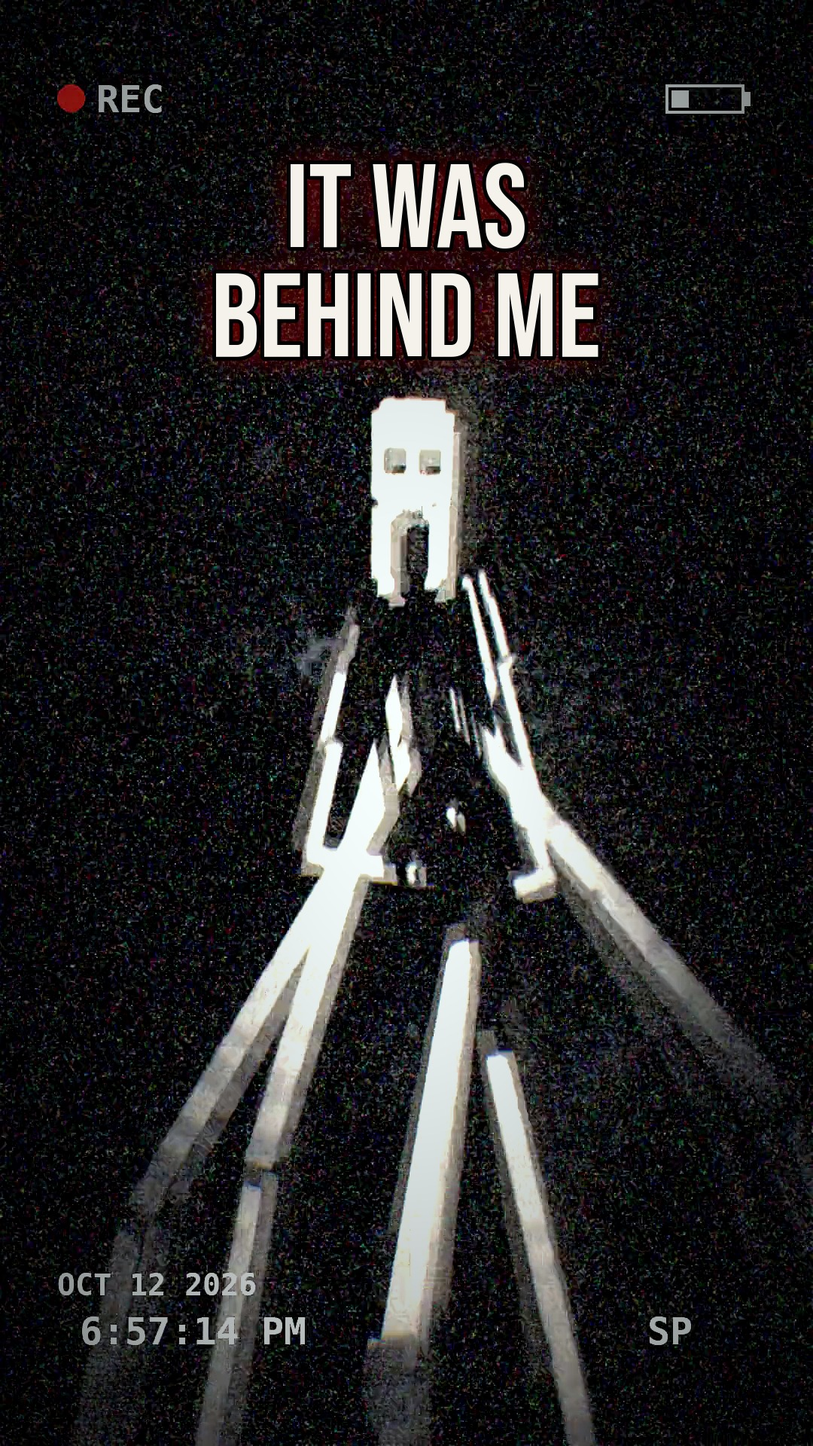
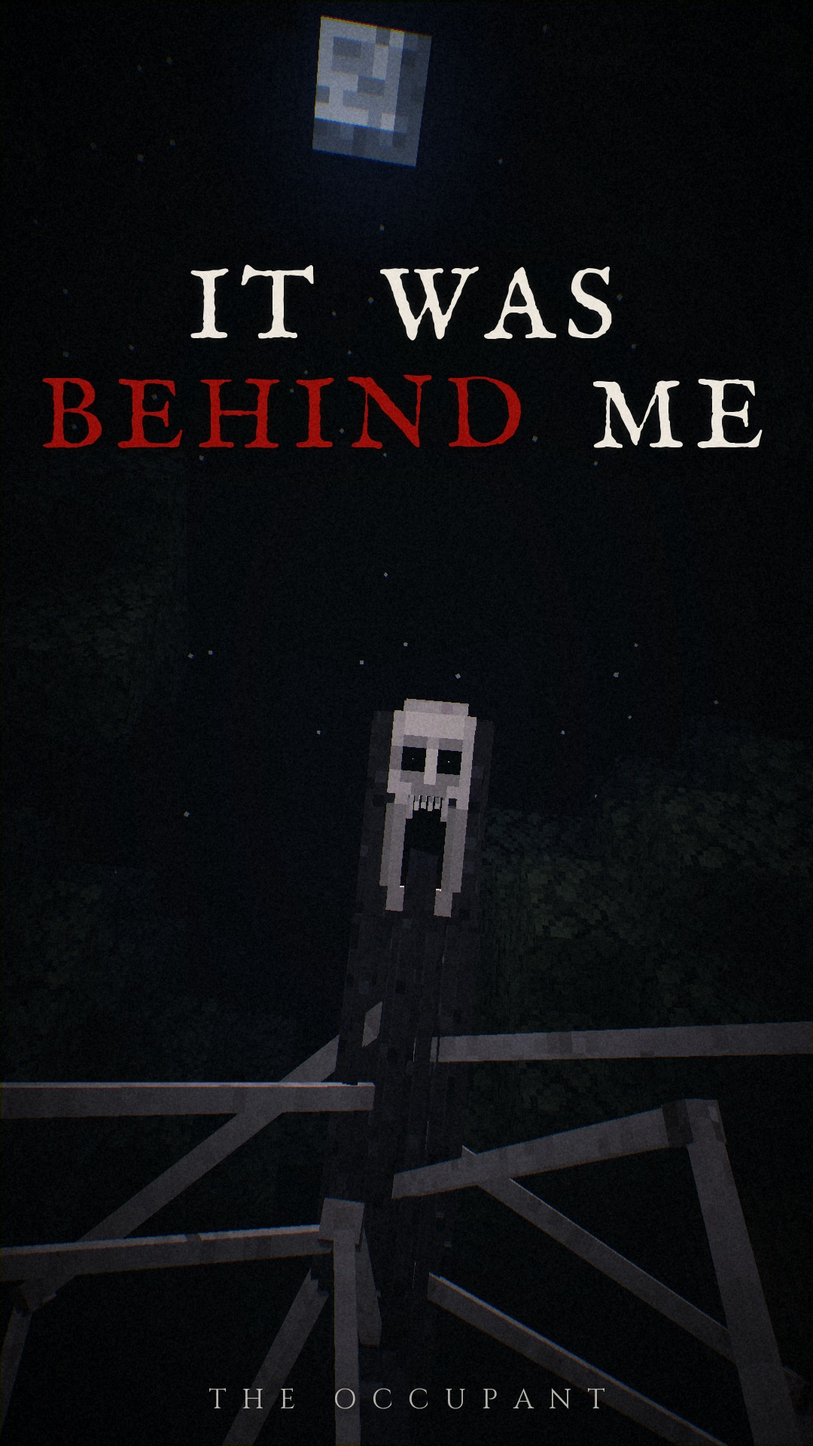
Thumbnails: staged in-game stills with a film-poster finish, in place of the frame grabs [skip ci]
The long video's is the face in the wall, lit in a pool, with "IT WAS IN THE WALL"; the short's is
it towering over them under the moon, with "IT WAS BEHIND ME". make_thumbs.py lights a pool where
the face is; HANDOFF.md says how to stage and finish them again.

Claude-Session: https://claude.ai/code/session_01A83kBx6QGbAcpDrebXu8tt

diff --git a/video-tools/edit/make_thumbs.py b/video-tools/edit/make_thumbs.py
@@ -122,12 +122,24 @@ def title(a, lines, cx, y0, size, tracking, red_word=None, credit=None, credit_y
     return np.asarray(img.convert("RGB")).astype(np.float32) / 255
 
 
-def finish(src, out, lines, cx, y0, size, tracking, red_word, credit_y, credit_size, crop=None):
+def spot(a, cx, cy, r, dark, gain=1.0):
+    """Everything but a pool round ({cx}, {cy}) (fractions of the frame) let down into the dark, the
+    pool itself brought up by {gain}."""
+    h, w, _ = a.shape
+    y, x = np.mgrid[0:h, 0:w].astype(np.float32)
+    d = np.sqrt(((x / w - cx) * w / h) ** 2 + (y / h - cy) ** 2)
+    m = dark + (gain - dark) * np.exp(-(d / r) ** 2)
+    return np.clip(a * m[..., None], 0, 1)
+
+
+def finish(src, out, lines, cx, y0, size, tracking, red_word, credit_y, credit_size, crop=None, pool=None):
     im = Image.open(src).convert("RGB")
     if crop:
         im = im.crop(crop)
     a = np.asarray(im).astype(np.float32) / 255
     w = a.shape[1]
+    if pool:
+        a = spot(a, *pool)
     a = grade(a)
     a = bloom(a, w * 0.012)
     a = fringe(a)
@@ -140,9 +152,11 @@ def finish(src, out, lines, cx, y0, size, tracking, red_word, credit_y, credit_s
 if __name__ == "__main__":
     long_src, short_src, outdir = Path(sys.argv[1]), Path(sys.argv[2]), Path(sys.argv[3])
     lw, lh = Image.open(long_src).size
-    finish(long_src, outdir / "thumbnail-long.jpg", ["IT WAS IN", "THE WALL"], int(lw * 0.77), int(lh * 0.30), int(lh * 0.115),
-           lh * 0.012, "WALL", int(lh * 0.86), int(lh * 0.03))
+    # The face in the gap, the rest of the room let down into the dark; the words on the dark side.
+    finish(long_src, outdir / "thumbnail-long.jpg", ["IT WAS IN", "THE WALL"], int(lw * 0.235), int(lh * 0.24), int(lh * 0.095),
+           lh * 0.01, "WALL", int(lh * 0.9), int(lh * 0.027), pool=(0.49, 0.7, 0.3, 0.3, 1.45))
     sw, sh = Image.open(short_src).size
-    finish(short_src, outdir / "thumbnail-short.jpg", ["IT WAS", "BEHIND ME"], sw // 2, int(sh * 0.07), int(sw * 0.13),
-           sw * 0.012, "BEHIND", int(sh * 0.93), int(sw * 0.035))
+    # It over them against the sky, the moon behind; the words between the moon and its face.
+    finish(short_src, outdir / "thumbnail-short.jpg", ["IT WAS", "BEHIND ME"], sw // 2, int(sh * 0.17), int(sw * 0.125),
+           sw * 0.012, "BEHIND", int(sh * 0.955), int(sw * 0.035), pool=(0.5, 0.5, 0.3, 0.6, 1.35))
     print("made", outdir / "thumbnail-long.jpg", outdir / "thumbnail-short.jpg")

diff --git a/video-tools/HANDOFF.md b/video-tools/HANDOFF.md
@@ -222,9 +222,18 @@ bash video-tools/edit/deliver.sh OUT
   - `names`: chapter titles.
 - **Finishing:** commit `video/the-occupant-long.mp4` with `[skip ci]`, push, and send the user the
   full-quality video, `voice_lines.txt` and `youtube.txt`.
-- **Thumbnails** (`edit/make_thumbs.py`): the long video's is the face in the wall (2:31.40) with
-  "IT WAS IN THE WALL"; the short's is it standing over them (27.4 s) with "IT WAS BEHIND ME". Both
-  are in `video/`. The short's YouTube text is in `edit/yt_short.txt`; the long's comes from `deliver.sh`.
+- **Thumbnails** are staged in-game stills, not frames from the video (the user found frame grabs
+  "generic, like a Canva presentation"). Run CI with `[keep] [tape:thumbs]`: `Tape.thumbs()` builds
+  the house at night (their body on the floor, it in the wall, lit by hidden `light` blocks) and the
+  glade (it towering over them, the moon behind, 1080×1920), and saves 4 angles of each as
+  `client-test/thumb-long-0..3.png` and `thumb-short-0..3.png` on `ci-results`. Don't push while it
+  runs or the screenshots aren't saved. Then
+  `python3 edit/make_thumbs.py thumb-long-0.png thumb-short-1.png OUT` does the film-poster finish
+  (a lit pool on the face, warm grade, bloom, lens fringes, vignette, grain, an IM Fell title with
+  one red word, a Cinzel credit) and writes `thumbnail-long.jpg` ("IT WAS IN THE WALL") and
+  `thumbnail-short.jpg` ("IT WAS BEHIND ME"). The chosen ones are copied into `video/`. The `pool=`
+  numbers in `make_thumbs.py` say where the light falls if another angle is used. The short's
+  YouTube text is in `edit/yt_short.txt`; the long's comes from `deliver.sh`.
 - **Requirements:** Python 3 with numpy, pillow and imageio-ffmpeg; ffmpeg/ffprobe; a JDK for the
   sim and harness. Rendering needs about 15 GB free.
 
